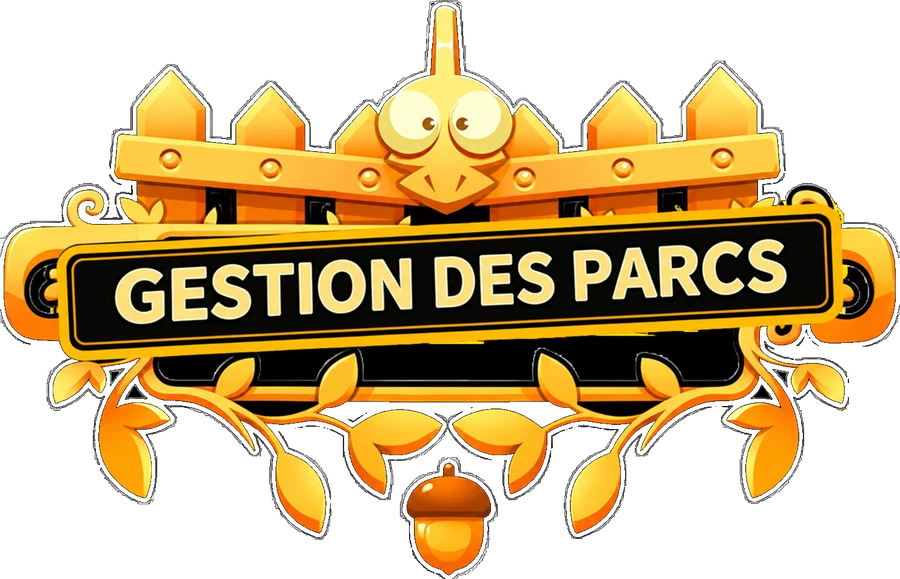
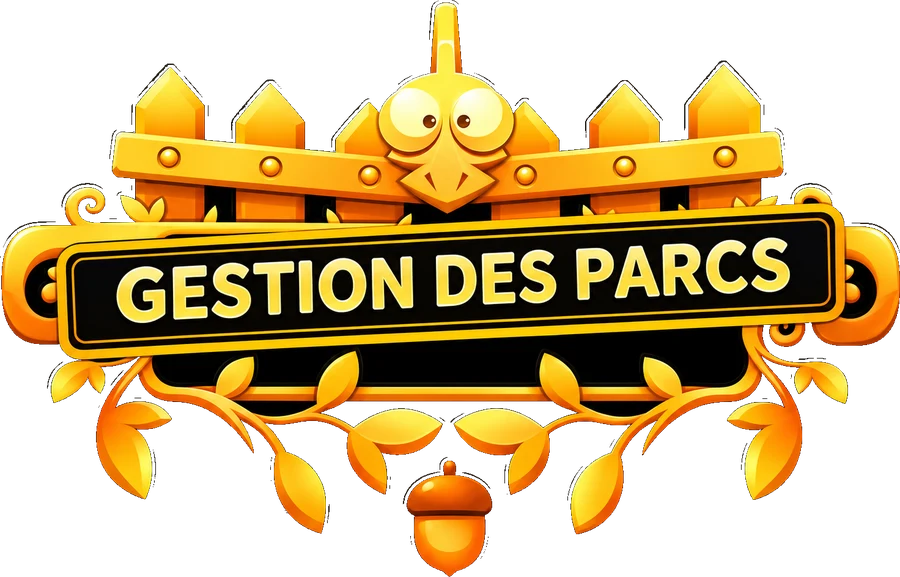
Nouvelle version du bouton Gestion des parcs
Claude-Session: https://claude.ai/code/session_01L5A7b8Dwtm3W7jUN33re64

Changed region(s): [[0.0, 0.0, 1.0, 1.0]]

diff --git a/index.html b/index.html
@@ -76,7 +76,7 @@ body{
   <button id="refresh" aria-label="Rafraîchir l'application" title="Chercher la dernière mise à jour">⟳</button>
   <button id="newsBtn" data-go="news">📜 Mises à jour<i id="newsDot" hidden></i></button>
   <button class="tile" data-go="parcs" aria-label="Gestion des parcs">
-    <img src="btn_parcs.webp" alt="Gestion des parcs">
+    <img src="btn_parcs.webp?v=5" alt="Gestion des parcs">
   </button>
   <div class="row">
     <button class="tile" data-go="accouplements" aria-label="Accouplements">
@@ -124,6 +124,7 @@ body{
 <script>
 // Journal des mises à jour : la plus récente en premier.
 const MAJ=[
+  {v:5,d:"31/10/2026",t:["Nouvelle version, plus nette, du bouton Gestion des parcs."]},
   {v:4,d:"31/10/2026",t:["Nouveaux visuels pour les boutons Accouplements et Accouchements sur l'accueil."]},
   {v:3,d:"31/10/2026",t:["Ajout de cet onglet « Mises à jour » en haut à droite de l'accueil."]},
   {v:2,d:"31/10/2026",t:["Retrait du titre sur l'accueil.","Ajout du bouton ⟳ en haut à gauche pour charger la dernière version de l'appli."]},

diff --git a/sw.js b/sw.js
@@ -1,4 +1,4 @@
-const C="drago-v4";
+const C="drago-v5";
 const F=["./","index.html","manifest.webmanifest","btn_parcs.webp","btn_accouplement.webp","btn_accouchement.webp","icon-192.png","icon-512.png","icon-maskable-192.png","icon-maskable-512.png"];
 self.addEventListener("install",e=>{e.waitUntil(caches.open(C).then(c=>Promise.all(F.map(u=>c.add(new Request(u,{cache:"reload"})).catch(()=>0)))).then(()=>self.skipWaiting()))});
 // ne supprime que les anciens caches de CETTE appli (préfixe "drago-")
